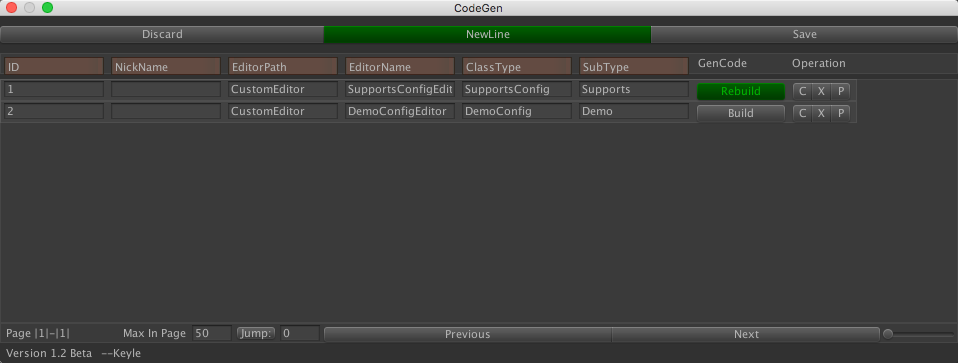
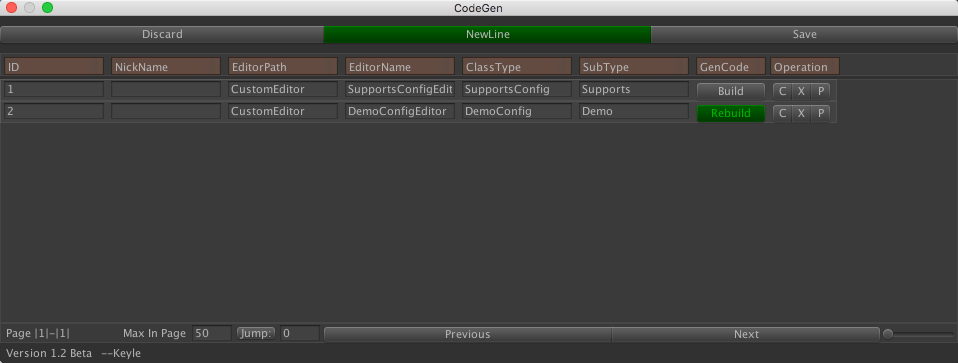
界面优化

Changed region(s): [[0.7265, 0.1515, 0.9081, 0.3333]]

diff --git a/SmartDataViewer/Assets/3rdPlugins/SmartDataViewer/Editor/BuildInEditor/ConfigEditorSchema.cs b/SmartDataViewer/Assets/3rdPlugins/SmartDataViewer/Editor/BuildInEditor/ConfigEditorSchema.cs
@@ -46,11 +46,10 @@ namespace SmartDataViewer.Editor
     public class ConfigEditorSchema<T> : IMultipleWindow where T : IModel, new()
     {
         
-        
         /// <summary>
         /// 扩展部分列宽
         /// </summary>
-        protected int ExtensionHeadTagWith = 90;
+        protected int ExtensionHeadTagWith = 80;
 
 
         /// <summary>
@@ -69,7 +68,7 @@ namespace SmartDataViewer.Editor
         /// <summary>
         /// 设置列间间隔
         /// </summary>
-        protected int ColumnSpan = 3;
+        protected int ColumnSpan = 4;
 
         /// <summary>
         /// 表头高度
@@ -330,7 +329,7 @@ namespace SmartDataViewer.Editor
                     {
                         GUILayout.BeginHorizontal();
                         GUILayout.Label(GetOutLinkDisplayField(temp[i], data.config_editor_setting.OutLinkClass,
-                            data.config_editor_setting.OutLinkDisplay),GUILayout.Width((data.config_editor_setting.Width * Resize - KitButtonWidth - ColumnSpan)));
+                            data.config_editor_setting.OutLinkDisplay),GUILayout.Width(data.config_editor_setting.Width * Resize - KitButtonWidth - ColumnSpan));
                         if (GUILayout.Button(Language.Delete, GUILayout.Width(KitButtonWidth)))
                             deleteIndex = i;
 
@@ -367,7 +366,7 @@ namespace SmartDataViewer.Editor
 
                         GUILayout.BeginHorizontal();
                         //alignment
-                        RenderBaseControl((int)(data.config_editor_setting.Width - KitButtonWidth - ColumnSpan) * Resize, data.config_editor_setting.CanEditor,
+                        RenderBaseControl(data.config_editor_setting.Width  * Resize - KitButtonWidth - ColumnSpan, data.config_editor_setting.CanEditor,
                             listItem,
                             v => { value.GetType().GetProperty("Item").SetValue(value, v, new object[] {i}); });
 
@@ -818,12 +817,13 @@ namespace SmartDataViewer.Editor
 
             RenderExtensionHead();
 
-            if (current_windowType != WindowType.CALLBACK)
-                GUILayout.Label(Language.Operation,EditorGUIStyle.GetTagButtonStyle(), GUILayout.Width(ExtensionHeadTagWith));
             if (current_windowType == WindowType.CALLBACK)
+                GUILayout.Label(Language.Select,EditorGUIStyle.GetTagButtonStyle(), GUILayout.Width(ExtensionHeadTagWith));
+            else if (current_windowType == WindowType.INPUT)
                 GUILayout.Label(Language.Operation,EditorGUIStyle.GetTagButtonStyle(), GUILayout.Width(ExtensionHeadTagWith));
-
-
+            else
+                GUILayout.Label(Language.Operation,EditorGUIStyle.GetTagButtonStyle(), GUILayout.Width(ExtensionHeadTagWith));
+            
             GUILayout.EndHorizontal();
             GUILayout.EndScrollView();
         }
@@ -993,7 +993,7 @@ namespace SmartDataViewer.Editor
         {
             if (current_windowType == WindowType.CALLBACK)
             {
-                if (GUILayout.Button(Language.Select, new GUILayoutOption[] {GUILayout.Width(80)}))
+                if (GUILayout.Button(Language.Select, new GUILayoutOption[] {GUILayout.Width(KitButtonWidth*4)}))
                 {
                     SelctList.Add(item.ID);
                     select_callback(current_list, item);
@@ -1017,7 +1017,7 @@ namespace SmartDataViewer.Editor
                 }
                 
                 if (GUILayout.Button(Language.Verfiy, GUI.skin.GetStyle("ButtonMid"),
-                    new GUILayoutOption[] {GUILayout.Width(19)}))
+                    new GUILayoutOption[] {GUILayout.Width(KitButtonWidth)}))
                 {
                     VerfiyButtonClick(item);
                 }
